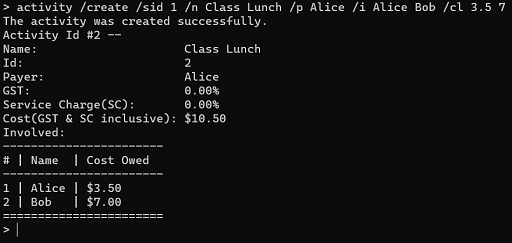
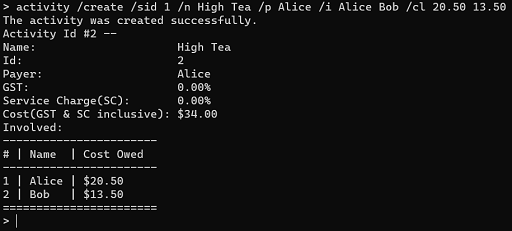
Update Activity command section in UG

Changed region(s): [[0.0, 0.0, 1.0, 0.7273], [0.0, 0.7576, 0.3438, 0.9091], [0.0, 0.9394, 0.0625, 0.9697]]

diff --git a/docs/UserGuide.md b/docs/UserGuide.md
@@ -167,12 +167,12 @@ Creates a session so that you can manage your group outings. <br>
 <br>
 
 **Example 1** 
-* Adds a new session named _Class Outing_ involving Alice and Bob on 15-03-2022.<br><br>
+* Adds a new session named _Class Outing_ involving _Alice_ and _Bob_ on _15-03-2022_.<br><br>
   `session /create /n Class Outing /d 15-03-2022 /pl Alice Bob` <br><br>
   ![Session create command Screenshot 1](https://raw.githubusercontent.com/AY2122s2-cs2113t-t10-1/tp/master/docs/images/userguide/SessionCreateCommand[1].png)
 
 **Example 2** 
-* A [group has been created](#creating-a-group-group-create) with group named _Uni Friends_ with _Sally, Emily, David, Uriel, Natalie, Daniel, Nathan, Ethan and Sam_. <br>
+* A [group has been created](#creating-a-group-group-create) with group named _Uni Friends_ with _Sally, Emily, David, Uriel, Natalie, Daniel, Nathan, Ethan_ and _Sam_. <br>
   Adds a new session named _Class Gathering_ consisting of a group named _Uni Friends_ and _Alice_, on _16-04-2022_.<br><br>
   `session /create /n Class Gathering /d 16-04-2022 /gid 1 /pl Alice` <br><br>
   ![Session create command Screenshot 2](https://raw.githubusercontent.com/AY2122s2-cs2113t-t10-1/tp/master/docs/images/userguide/SessionCreateCommand[2].png)
@@ -199,7 +199,7 @@ Deletes an existing session so that you can remove sessions that you no longer n
 <br>
 
 **Example** 
-* Removes an existing session with a unique identifier of 2.<br><br>
+* Removes an existing session with a unique identifier of _2_.<br><br>
   `session /delete /sid 2` <br><br>
   ![Session delete command Screenshot](https://raw.githubusercontent.com/AY2122s2-cs2113t-t10-1/tp/master/docs/images/userguide/SessionDeleteCommand.png)
   <br>
@@ -256,7 +256,7 @@ Edits an existing session so that you can change the details of a session.<br>
   ![Session Edit command Screenshot 1](https://raw.githubusercontent.com/AY2122s2-cs2113t-t10-1/tp/master/docs/images/userguide/SessionEditCommand[1].png)
 
 **Example 2** 
-* Edits the session to include Charlie. <br><br>
+* Edits the session to include _Charlie_. <br><br>
   `session /edit /sid 1 /pl Alice Bob Charlie` <br><br>
   ![Session Edit command Screenshot 2](https://raw.githubusercontent.com/AY2122s2-cs2113t-t10-1/tp/master/docs/images/userguide/SessionEditCommand[2].png)
   <br>
@@ -278,7 +278,7 @@ Displays the details of a session so that you can review it.<br>
 <br>
 
 **Example**:
-* Views an existing session with a unique identifier of 1.<br><br>
+* Views an existing session with a unique identifier of _1_.<br><br>
   `session /view /sid 1` <br><br>
   ![Session View command Screenshot](https://raw.githubusercontent.com/AY2122s2-cs2113t-t10-1/tp/master/docs/images/userguide/SessionViewCommand.png)
   <br>     
@@ -360,15 +360,15 @@ There are 2 ways that you can specify the costs of an activity:
   named _Class Outing_ with _Alice_ and _Bob_ involved on _15-03-2022_.
 
 **Example 1**
-* Adds a new activity to a session with a session unique identifier of 1 named _Class Lunch_. Alice paid a total of $10
+* Adds a new activity to a session with a session unique identifier of _1_ named _Class Lunch_. Alice paid a total of _$10_
   for both Bob and herself which is split equally amongst them.<br><br>
   `activity /create /sid 1 /n Class Lunch /p Alice /i Alice Bob /co 10` <br><br>
   ![Activity create command [1] Screenshot](https://raw.githubusercontent.com/AY2122s2-cs2113t-t10-1/tp/master/docs/images/userguide/ActivityCreateCommand[1].png)
 
 **Example 2**
-* Adds a new activity to a session with a session unique identifier of 1 named _Class Lunch_. Alice paid for both
-  Bob and herself. Alice's meal cost $3.50 while Bob's meal cost $7.<br><br>
-  `activity /create /sid 1 /n Class Lunch /p Alice /i Alice Bob /cl 3.5 7` <br><br>
+* Adds a new activity to a session with a session unique identifier of _1_ named _High Tea_. Alice paid for both
+  Bob and herself. Alice's meal cost _$20.50_ while Bob's meal cost _$13.50_.<br><br>
+  `activity /create /sid 1 /n High Tea /p Alice /i Alice Bob /cl 20.50 13.50` <br><br>
   ![Activity create command [2] Screenshot](https://raw.githubusercontent.com/AY2122s2-cs2113t-t10-1/tp/master/docs/images/userguide/ActivityCreateCommand[2].png)
   <br>
   <br>
@@ -395,7 +395,7 @@ Deletes an existing activity from a particular session so that you can remove ac
 <br>
 
 **Example**:
-- Removes an existing activity with a unique identifier of 1 from a session with a unique identifier of 1. <br><br>
+- Removes an existing activity with a unique identifier of _2_ from a session with a unique identifier of _1_. <br><br>
   `activity /delete /sid 1 /aid 2` <br><br>
   ![Activity delete command Screenshot](https://raw.githubusercontent.com/AY2122s2-cs2113t-t10-1/tp/master/docs/images/userguide/ActivityDeleteCommand.png)
   <br>
@@ -475,8 +475,8 @@ distributed amongst all participants.
 <br>
 
 **Example**
-* An [activity has been created](#creating-an-activity-activity-create) with an `ACTIVITY_ID` of 1 in 
-  a session with a `SESSION_ID` of 1. It is named *Class Lunch* with Alice and Bob.<br>
+* An [activity has been created](#creating-an-activity-activity-create) with an `ACTIVITY_ID` of _1_ in 
+  a session with a `SESSION_ID` of _1_. It is named _Class Lunch_ with _Alice_ and _Bob_.<br>
   Edits the activity's name, payer, overall cost, GST percentage and service charge. List of participants remains
   unchanged.<br><br>
   `activity /edit /sid 1 /aid 1 /n Dinner /p Bob /i Alice Bob /co 30 /gst 7 /sc 10`<br><br>
@@ -504,7 +504,7 @@ Displays the details about an activity so that you can review it.<br>
 <br>
 
 **Example**
-- Views an activity with a unique identifier of 1 in a session with a session unique identifier of 1.<br><br>
+- Views an activity with a unique identifier of _1_ in a session with a session unique identifier of _1_.<br><br>
   `activity /view /sid 1 /aid 1` <br><br>
   ![Activity view command Screenshot](https://raw.githubusercontent.com/AY2122s2-cs2113t-t10-1/tp/master/docs/images/userguide/ActivityViewCommand.png)
   <br>     
@@ -527,7 +527,7 @@ However, deleted activities are not listed.
 <br>
 
 **Example**:
-- Lists all activities in a session with a unique identifier of 1.<br><br>
+- Lists all activities in a session with a unique identifier of _1_.<br><br>
   `activity /list /sid 1` <br><br>
   ![Activity list command Screenshot](https://raw.githubusercontent.com/AY2122s2-cs2113t-t10-1/tp/master/docs/images/userguide/ActivityListCommand.png)
   <br>     
@@ -563,7 +563,7 @@ must pay and to whom they should pay for all debts to be resolved.<br>
 
 **Example**
 * Displays a session summary that summarises the [session that has been created](#creating-a-session-session-create)
-  with session unique identifier of 1 to help Alice and Bob calculate what transactions they have to make to
+  with session unique identifier of _1_ to help _Alice_ and _Bob_ calculate what transactions they have to make to
   resolve all their debts to each other.<br><br>
   `session /summary /sid 1`<br><br>
   ![Session summary command Screenshot](https://raw.githubusercontent.com/AY2122s2-cs2113t-t10-1/tp/master/docs/images/userguide/SessionSummaryCommand.png)
@@ -600,7 +600,7 @@ involves the same group of individuals. This saves you time when entering the li
 <br>
 
 **Example**:
-- Adds a new group named _Uni Friends_, consisting of Sally, Emily, David, Uriel, Natalie, Daniel, Nathan, Ethan and Sam.<br><br>
+- Adds a new group named _Uni Friends_, consisting of _Sally, Emily, David, Uriel, Natalie, Daniel, Nathan, Ethan_ and _Sam_.<br><br>
   `group /create /n Uni Friends /pl Sally Emily David Uriel Natalie Daniel Nathan Ethan Sam` <br><br>
   ![Group create command Screenshot](https://raw.githubusercontent.com/AY2122s2-cs2113t-t10-1/tp/master/docs/images/userguide/GroupCreateCommand.png)
   <br>
@@ -625,7 +625,7 @@ Deletes an existing group so that you can remove groups that you no longer need.
 <br>
 
 **Example**:
-- Removes an existing group with a unique identifier of 1.<br><br>
+- Removes an existing group with a unique identifier of _1_.<br><br>
   `group /delete /gid 1` <br><br>
   ![Group delete command Screenshot](https://raw.githubusercontent.com/AY2122s2-cs2113t-t10-1/tp/master/docs/images/userguide/GroupDeleteCommand.png)
   <br>
@@ -669,7 +669,7 @@ Examples of usage:
   ![Group Edit command Screenshot 1](https://raw.githubusercontent.com/AY2122s2-cs2113t-t10-1/tp/master/docs/images/userguide/GroupEditCommand[1].png)
 
 **Example 2**
-- Edits the group to exclude David. <br><br>
+- Edits the group to exclude _David_. <br><br>
   `group /edit /gid 1 /pl Alice Bob Charlie` <br><br>
   ![Group Edit command Screenshot 2](https://raw.githubusercontent.com/AY2122s2-cs2113t-t10-1/tp/master/docs/images/userguide/GroupEditCommand[2].png)
   <br>
@@ -691,7 +691,7 @@ Displays the details about a group so that you can review it.<br>
 <br>
 
 **Example**:
-- Views a group with a unique identifier of 1.<br><br>
+- Views a group with a unique identifier of _1_.<br><br>
   `group /view /gid 1` <br><br>
   ![Group view command Screenshot](https://raw.githubusercontent.com/AY2122s2-cs2113t-t10-1/tp/master/docs/images/userguide/GroupViewCommand.png)
   <br>     
